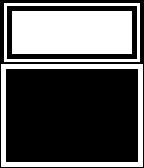
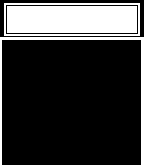
Changed background
Better changed the background to fit the quote and show time at top

Changed region(s): [[0.0, 0.0298, 1.0, 1.0]]

diff --git a/src/main.c b/src/main.c
@@ -18,7 +18,7 @@ void window_load(Window *window){
   layer_add_child(window_get_root_layer(window), bitmap_layer_get_layer(bgLayer));
   
   // Now create the time layer
-  timeLayer = text_layer_create(GRect(2.5,20,139,50));
+  timeLayer = text_layer_create(GRect(2.5,8,139,50));
   text_layer_set_background_color(timeLayer, GColorClear);
   text_layer_set_text_color(timeLayer, GColorBlack);
   timeFont = fonts_load_custom_font(resource_get_handle(RESOURCE_ID_FONT_SANSPOSTER_BOLD_20));
@@ -30,10 +30,10 @@ void window_load(Window *window){
   layer_add_child(window_get_root_layer(window), text_layer_get_layer(timeLayer));
   
   // Create the quote layer
-  quoteLayer = text_layer_create(GRect(5,65,139,100));
+  quoteLayer = text_layer_create(GRect(3,45,139,100));
   text_layer_set_background_color(quoteLayer, GColorClear);
   text_layer_set_text_color(quoteLayer, GColorWhite);
-  quoteFont = fonts_load_custom_font(resource_get_handle(RESOURCE_ID_FONT_DJB_HOLLY_SERIF_14));
+  quoteFont = fonts_load_custom_font(resource_get_handle(RESOURCE_ID_FONT_DJB_HOLLY_SERIF_12));
   
   // And apply the font to the quote layer
   text_layer_set_font(quoteLayer, quoteFont);
